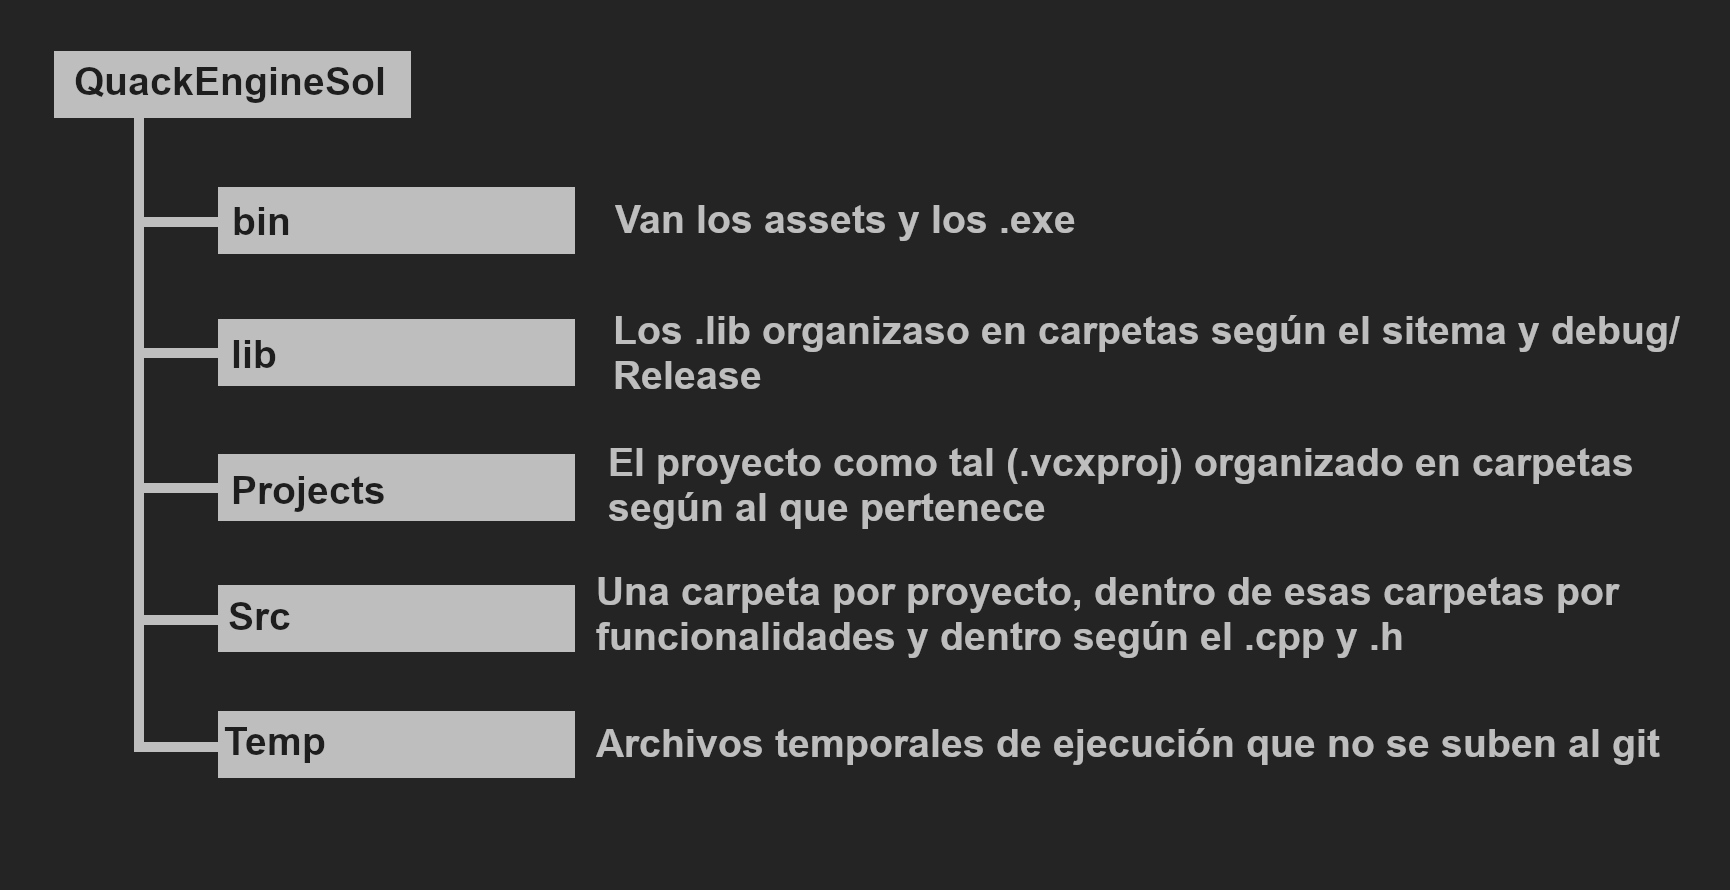
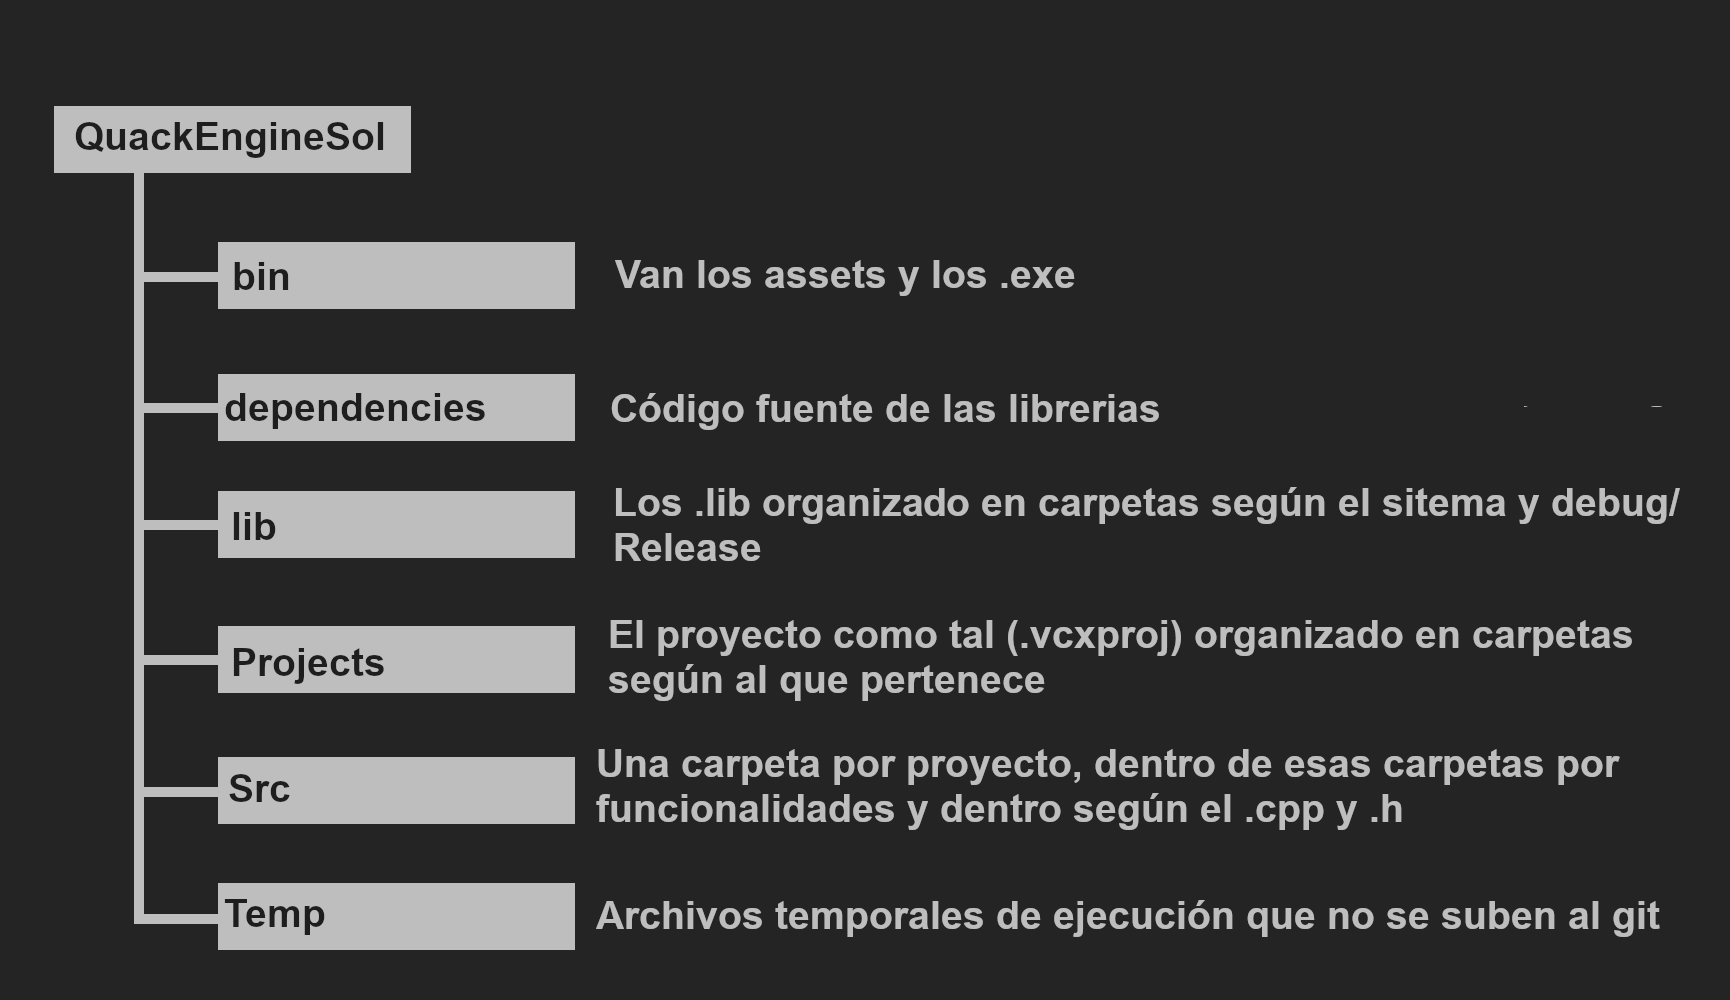
Ogre incorporado
Cada uno se tiene que descargar la libreria, es para no meter ruido en el git

Changed region(s): [[0.0624, 0.4854, 0.9676, 0.9708], [0.0624, 0.2124, 0.9676, 0.4551], [0.0312, 0.0303, 0.2497, 0.182]]

diff --git a/QuackEngineSol/Src/OGRE/OGRE.cpp b/QuackEngineSol/Src/OGRE/OGRE.cpp
@@ -1,7 +1,10 @@
 #include <iostream>
-
+#include <OgreRoot.h>
 
 void CargarOGRE()
 {
-	std::cout << "Aqui deberia estar cargando fmod\n";
+	std::cout << "Aqui deberia estar cargando ogre\n";
+
+	Ogre::Root* root;
+	root = new Ogre::Root();
 }

diff --git a/Organizacion.md b/Organizacion.md
@@ -2,6 +2,7 @@
 
 QuackEngineSol es la solucion y en este repos solo habrá una sola solucion. <br>
 Dentro de esta carpeta tenemops el bin (donde van todos los exe y donde deberian ir todos los assets.<br>
+Despues tenemos dependencies que es donde irá el código fuente de cada libreria que nos instalemos <br>
 En la caprta es Projects donde van todos los proyectos(física, sonido, ogre...) y el QuackEnginePro es el proyecto general del motor, y aquí es donde irá la lógica principal del motor,<br>
 Src es donde va a ir todo el código fuente organizandolo en carpetas segun el proyecto, dentro de esa carpeta segun 
 la funcionalidad (movimiento, render...), y dentro de la funcionalidad seguns si es .cpp o .h. Por último tenemos el Temp donde van todos los archivos temporales (la compilación) y no se sube al git así que chill.<br>
@@ -17,7 +18,7 @@ A la hora de crear los archivos (.cpp y .h) no se crean desde visual por que los
 
 
 **IMPORTANTE:** se tiene que revisar que todas las rutas estén bien para que se situen automáticamente en las carpetas que queremos, para eso tenemos que ir a las propiedades del proyecto (*clic derecho en el proyecto y abajo del todo esta propiedades*). En general queremos que los proyectos que añadimos sean bibliotecas (excepto el proyecto principal de los dos juegos) <br>
-Tenemos que asegurarnos de que estén estas opciones: (si son bibliotecas) <br>
+Tenemos que asegurarnos de que estén estas opciones fijandose en que estemos en todas las configuraciones y en todas las plataformas: (si son bibliotecas) <br>
 **Directorio de salida:** $(SolutionDir)lib\$(Platform)\$(Configuration)\ <br>
 **Directorio intermedio:** $(SolutionDir)Temp\$(ProjectName)\$(Platform)\$(Configuration)\ <br>
 **Nombre de destino:** $(ProjectName) <br>
@@ -31,6 +32,24 @@ Al descargaros el repos ejecutarlo tal cual, os dirá: **ERROR: el fichero no se
 
 Si os quereis asegurar de que todo funciona bien, hay que abrir la consola y ejecutar el .exe, tanto el .exe de la consola como visual pone que funciona pues está todo bien.
 
-Las librerias a la hora de descargarlas tenemos que fijarnos en la version x86 (32 bits)<br>
+Las librerias a la hora de descargarlas tenemos que fijarnos en la version x86 (32 bits)<br><br>
 
-Y ya estaria hulio.
+
+
+
+## Juanma, esto sigue sin irme, ¿que coño hago?
+Hay que compilar ogre amigo, acompañame en esta triste historia. <br>
+En el drive nuestro dejo la carpeta del código fuente de ogre el cual os teneis que descargar y meterlo en la carpeta *QuackengineSol\dependencies*. Ahora empieza la fiesta de verdad. Se necesita cMake para compilar ogre (me han dicho por el pinganillo que visual ya lo lleva pero yo no se usarlo y me he descargado el zip de su web que viene con interfaz y todo). El cmake no tiene que ir dentro del proyecto como tal. En lo que viene el cmake, abris la carpeta bin y ejecutais el cmake-gui.exe y sale una interfaz. En el source poneis *vuestra_ruta\QuackengineSol\dependencies\Ogre\Src* y en el destino *vuestra_ruta\QuackengineSol\dependencies\Ogre\build* (teneis que crear la carpeta). Le dais a configure diciendole que en el sistema queremos el Win32 que si no instala el x64 y luego no funciona. Ahora os vais a por unos macorrones mientras se instala. <br>
+Cuando este instalado estara todo en rojo y muy importante desactivar la casilla de OGRE_BUILD_COMPONENT_BITES que es ilegal y ocupa bastante. Con todo esto le das a generate y esperais.<br> 
+Ya casi estamos<br>
+En verdad no.<br>
+Abris la carpeta build y buscais OGRE.sln para abrirlo en visual. Hay muchos proyectos en esta solucion pero teneis que compilar (Ctrl+shift+C) todo tanto en Debug(Win32) como Release(Win32). EN DEBUG OS SALDRÁN 3 ERRORES PERO ESTÁ BIEN.<br>
+Podeis cerrar el visual de ogre.sln<br>
+En el explorador de archivos ir a *dependencies\Ogre\build\bin\debug* y copias el OgreMain_d.dll en *QuackEngineSol\bin*. Ahora copias el OgreMain.dll y el zlib.dll de *dependencies\Ogre\build\bin\release* y lo poneis también en *QuackEngineSol\bin*.<br>
+Volveis al visual del QuackEngine y mirais si compila. Si no hay que mirar varias cosas de las propiedades del proyecto de OGRE. Fijaros en tener la configuración en todas las configuraciones y la plataforma en todas las plataformas aun que solo vayamos a usar x86<br>
+**En Directorios VC++, direcctorios de archivos de bibliotecas:** $(SolutionDir)dependencies\Ogre\build\lib\$(Configuration)
+**En C/C++, direcctorios de inclusión adicionales:** $(SolutionDir)dependencies\Ogre\build\include;$(SolutionDir)dependencies\Ogre\Src\OgreMain\include;
+**En bibliotecario, directorio de bibliotecas adicionales:** $(SolutionDir)dependencies\Ogre\build\lib\$(Configuration)
+**En bibliotecario, dependencias adicionales:** OrgreMain_d.lib en configuracion debug y OrgreMain.lib en release<br><br>
+
+Creo, CREO, que ya está, cualquier cosas me escribis si no son horas muy intempestivas, gracias por acudir a mi charla TED-
